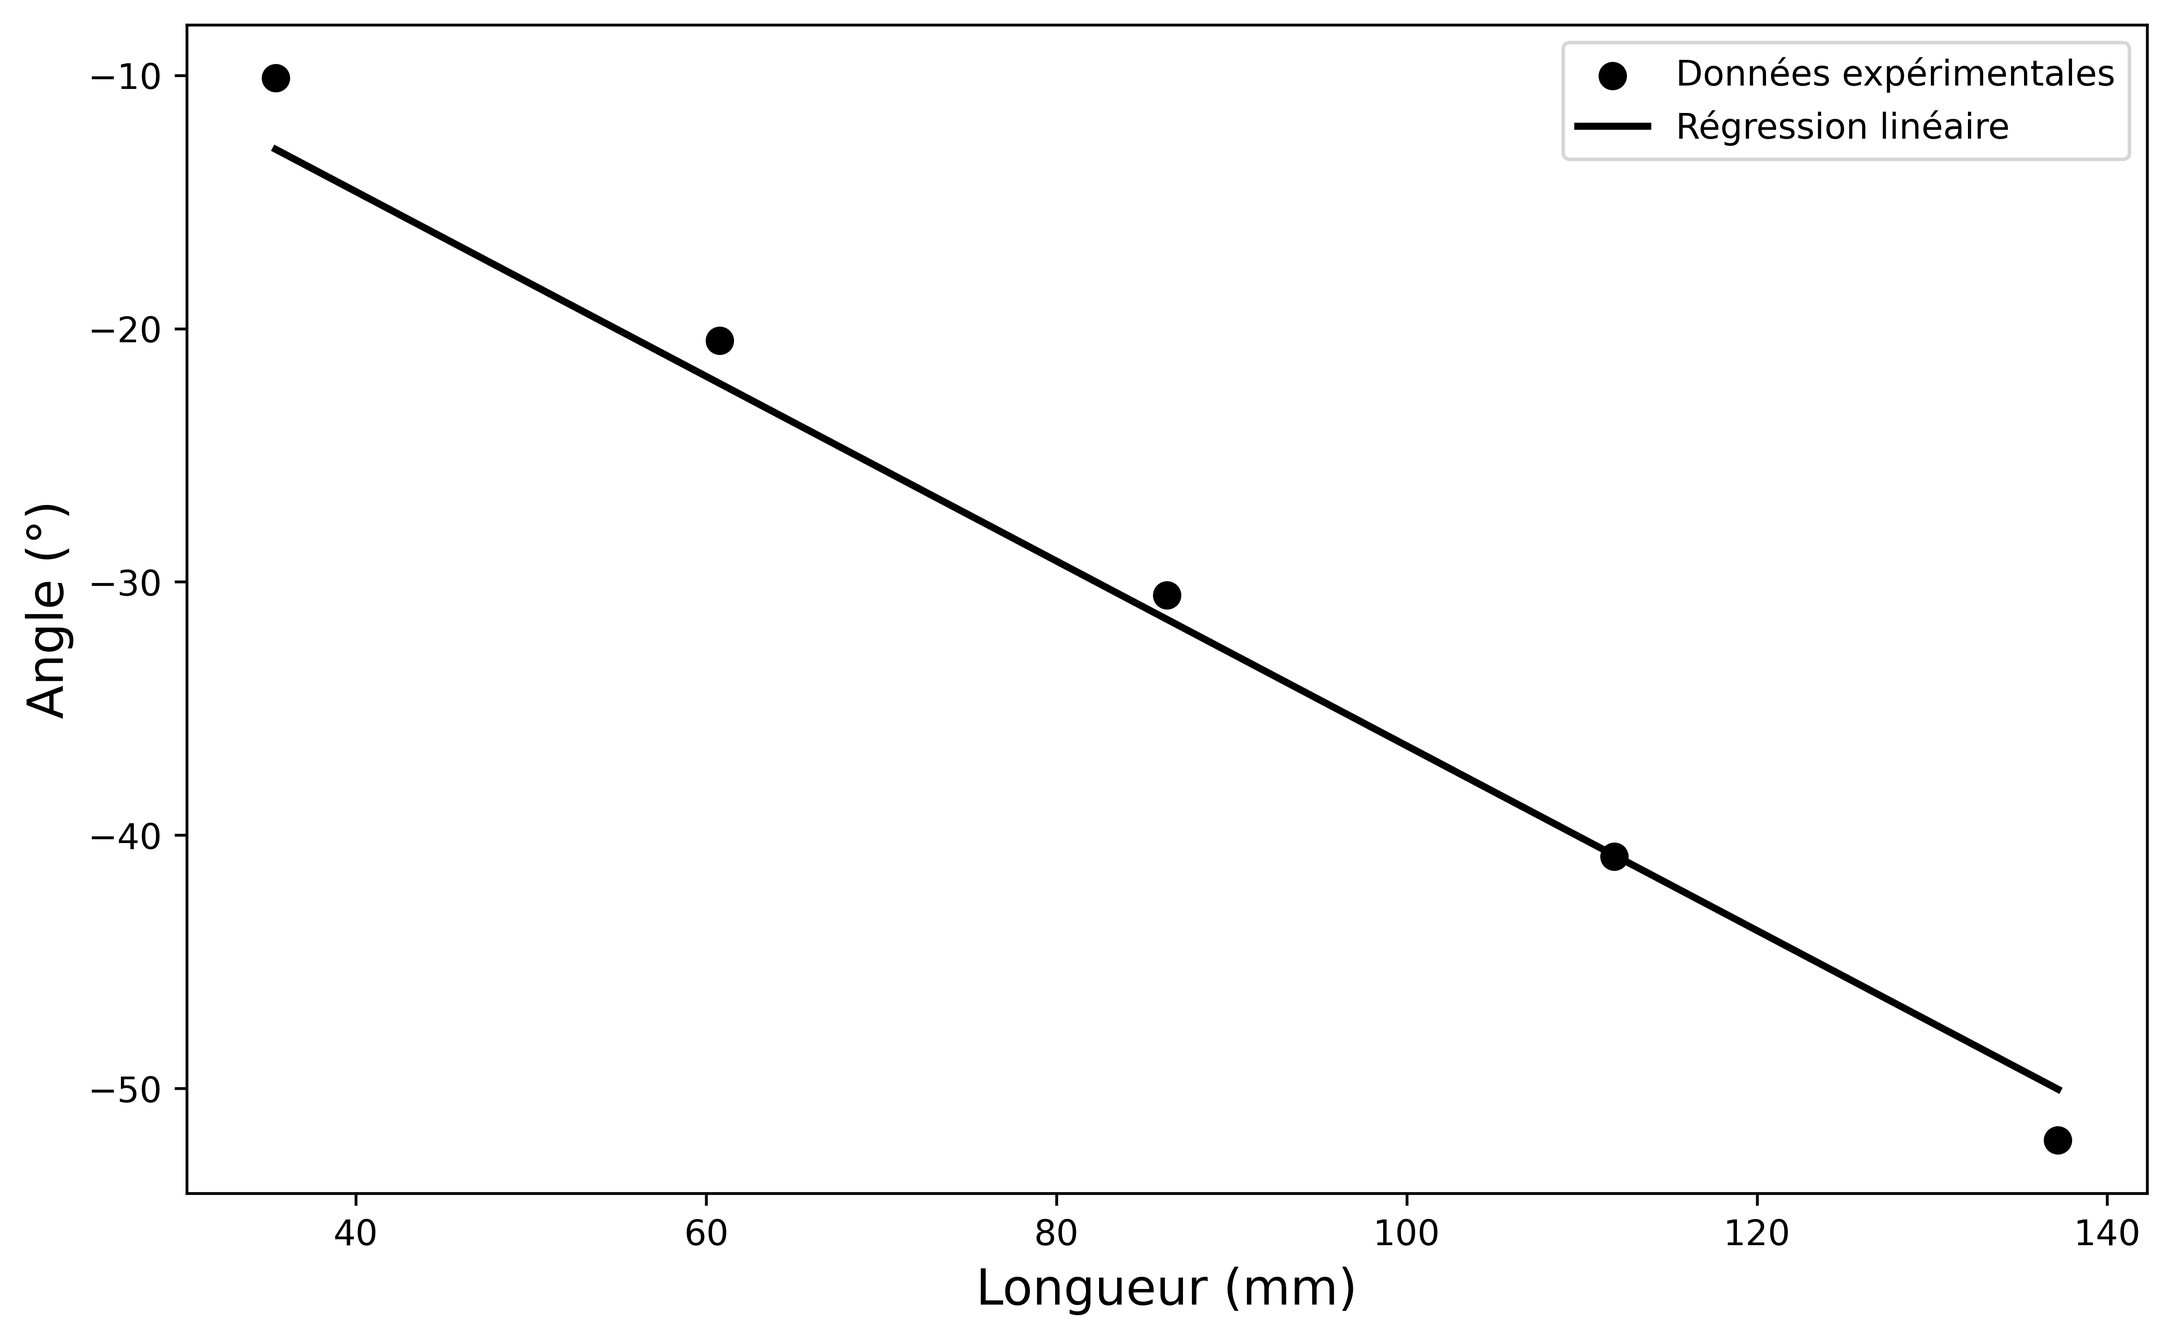
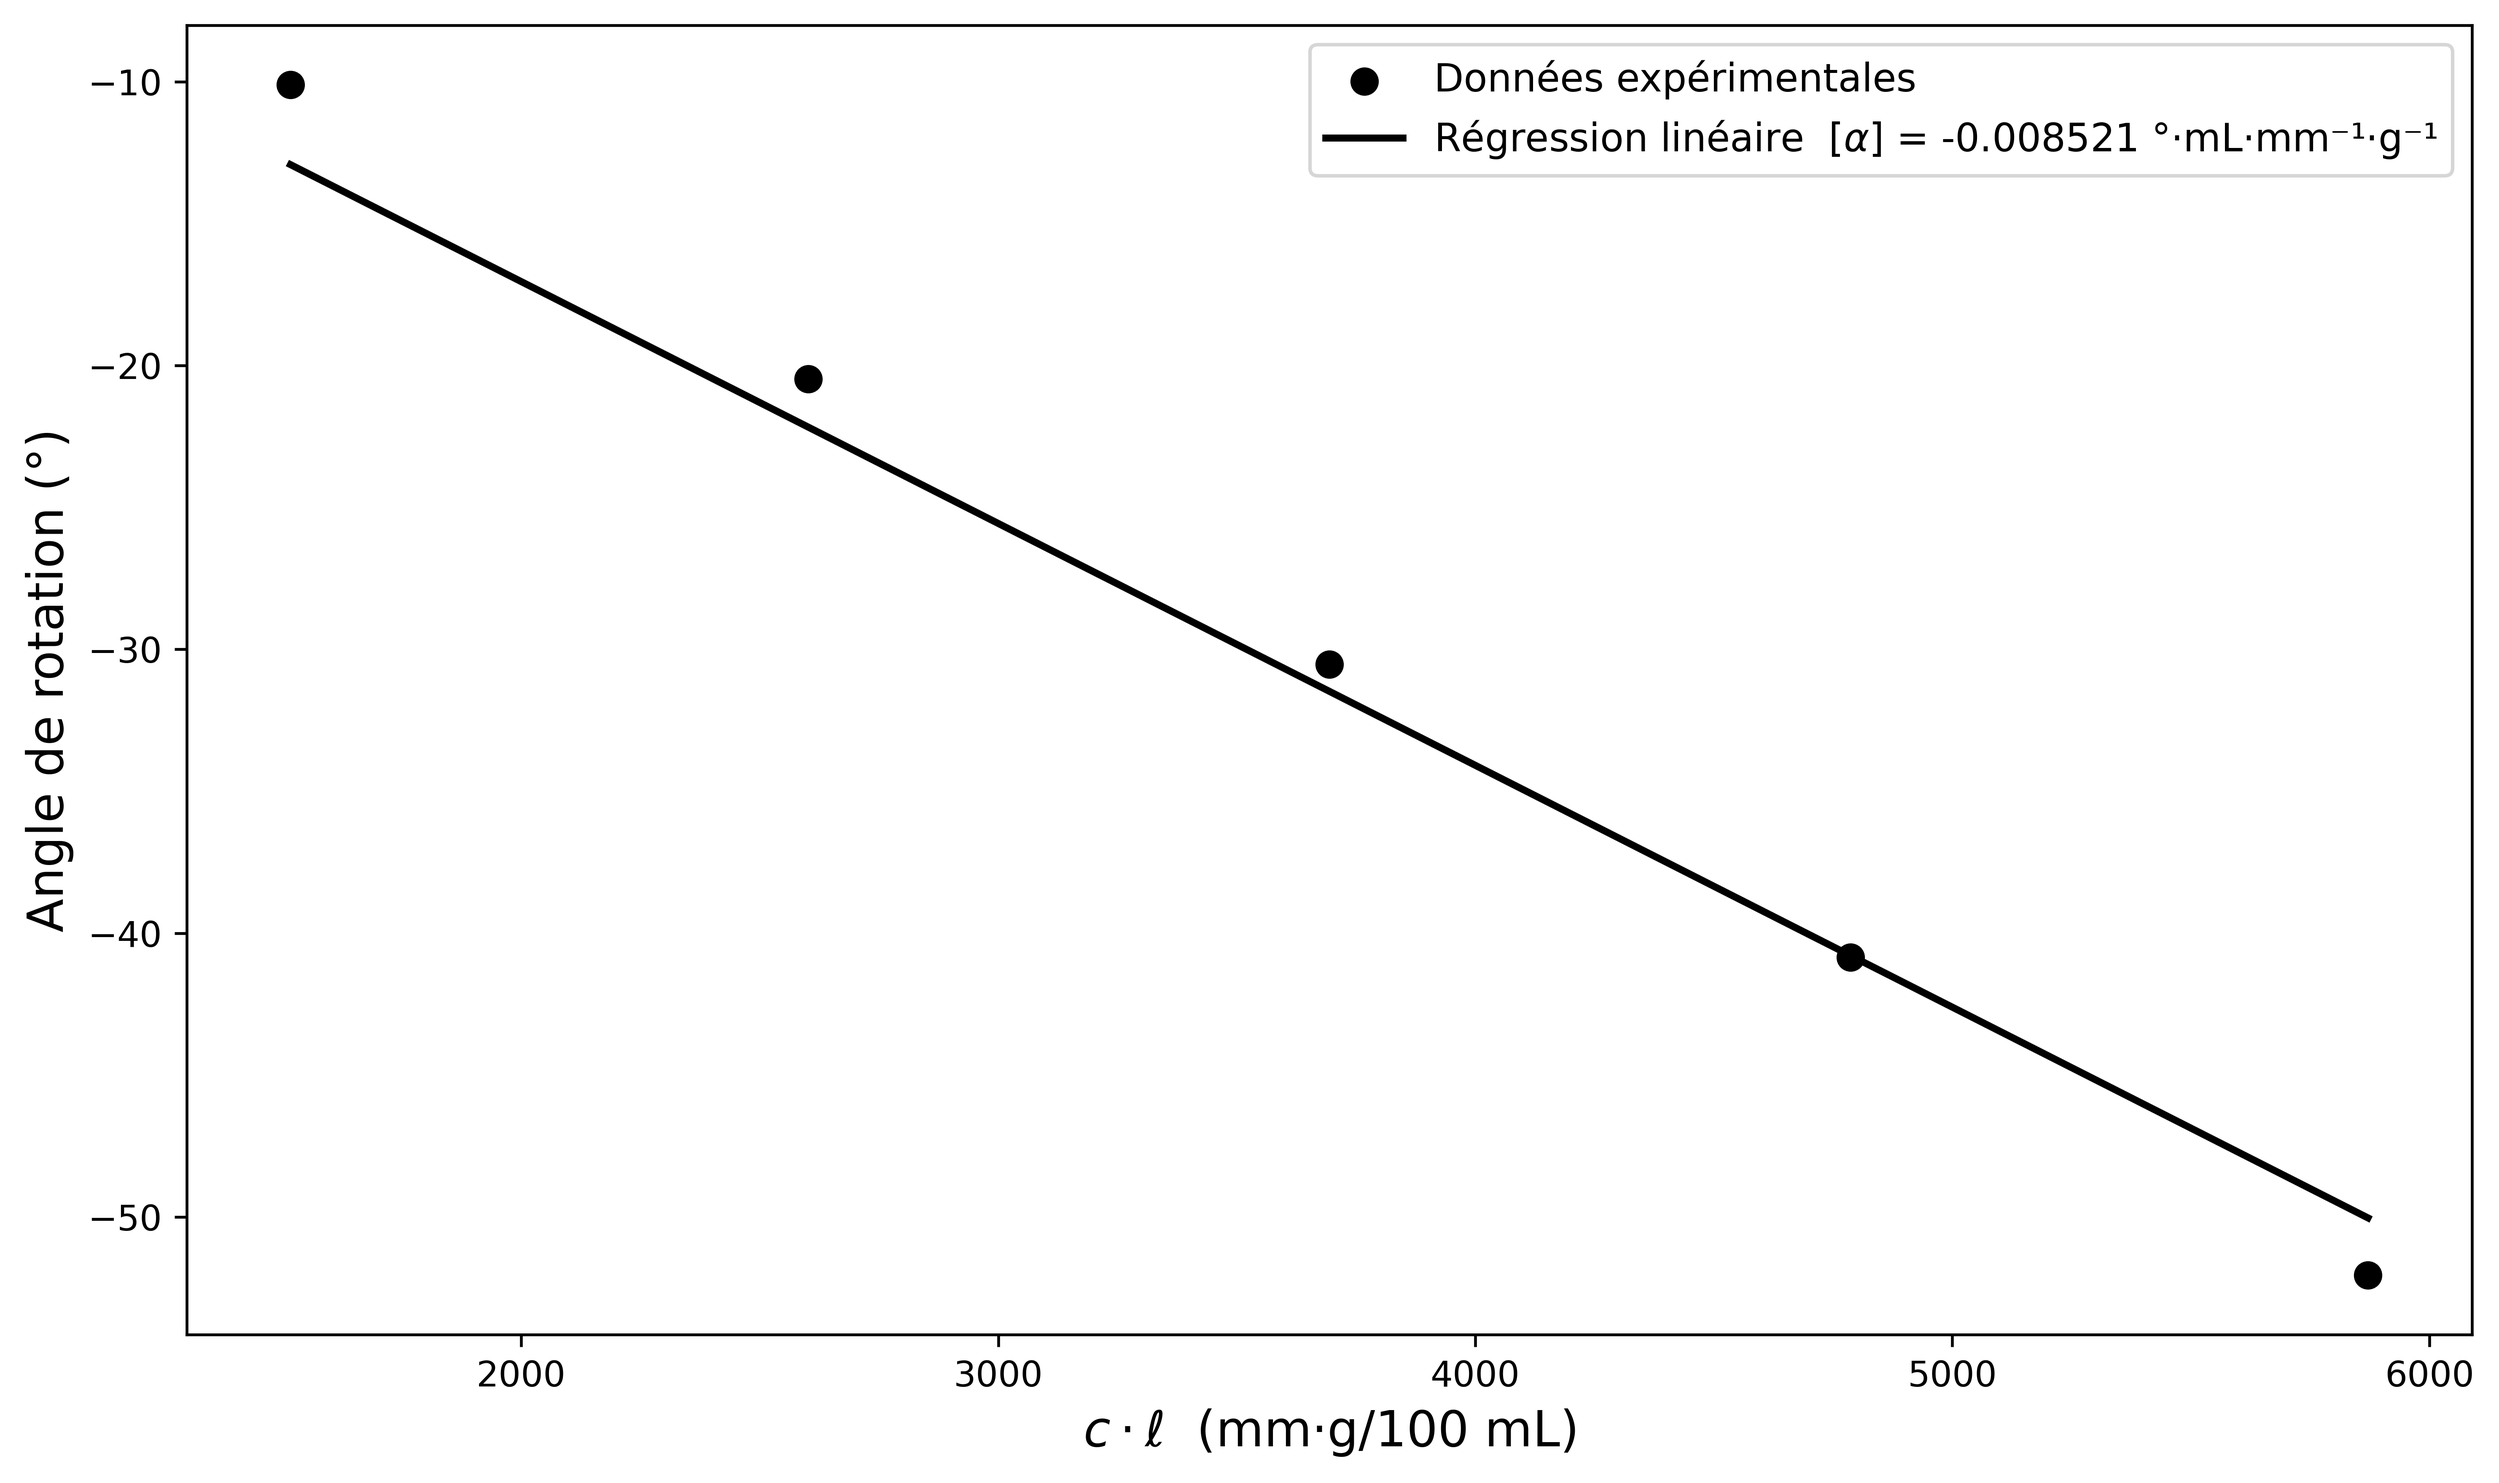
comparaisons des régression linéaires

diff --git a/Projet_2/glucose_moyenne_linéaire.py b/Projet_2/glucose_moyenne_linéaire.py
@@ -4,37 +4,35 @@ import matplotlib.pyplot as plt
 import scipy.optimize as opt
 
 base_dir = os.path.dirname(os.path.abspath(__file__))
-excel_path = os.path.join(base_dir, "Projet_2_31_mars.xlsx")
 
-longueur = np.array([137.18, 106.65, 86.31, 65.96, 45.61])
-#angle = np.array([32.92, 25.8, 20.1, 14.67, 9.08]) #si theta 0 = 67.42
-angle = np.array([32.97, 25.85, 20.15, 14.72, 9.13]) #si theta 0 = 67.37
-concentration = np.array([45.45 for i in range(len(longueur))])
+longueur      = np.array([137.18, 106.65, 86.31, 65.96, 45.61])  # mm
+angle         = np.array([32.97, 25.85, 20.15, 14.72, 9.13])     # °
+concentration = 45.45  # g/100 mL
 
-alpha = angle / (longueur * concentration)
-print("Alpha (°/(mm·g/L)) :", alpha)
+# Variable composite c·ℓ (en mm·g/100mL)
+cl = concentration * longueur
 
-def regression_lineaire(x, a):
-    return a * x
+def regression_lineaire(x, alpha_sp):
+    return alpha_sp * x
 
-popt, pcov = opt.curve_fit(regression_lineaire, longueur, angle)
-a = popt[0]
-print(f"Coefficients de la régression linéaire : a = {a:.6f}")
+popt, pcov = opt.curve_fit(regression_lineaire, cl, angle)
+alpha_sp       = popt[0]
+sigma_alpha_sp = np.sqrt(pcov[0, 0])
 
-longueur_fit = np.linspace(min(longueur), max(longueur), 100)
-angle_fit = a * longueur_fit
+print(f"Pouvoir rotatoire spécifique [α] = {alpha_sp:.6f} ± {sigma_alpha_sp:.6f} °·mL·mm⁻¹·g⁻¹")
 
-alpha_moy = np.mean(alpha)
-print(f"Alpha moyen : {alpha_moy:.6f} °/(mm·g/ml)")
+cl_fit    = np.linspace(min(cl), max(cl), 100)
+angle_fit = alpha_sp * cl_fit
 
 plt.figure(figsize=(10, 6))
-plt.scatter(longueur, angle, color='black', s=50, label='Données expérimentales')
-plt.plot(longueur_fit, angle_fit, color='black', linestyle='-', linewidth=2, label='Régression linéaire')
-plt.xlabel("Longueur (mm)", fontsize=14)
-plt.ylabel("Angle (°)", fontsize=14)
-plt.legend()
+plt.scatter(cl, angle, color='black', s=50, label='Données expérimentales')
+plt.plot(cl_fit, angle_fit, color='black', linestyle='-', linewidth=2,
+         label=f'Régression linéaire  $[\\alpha]$ = {alpha_sp:.6f} °·mL·mm⁻¹·g⁻¹')
+plt.xlabel(r"$c \cdot \ell$  (mm·g/100 mL)", fontsize=14)
+plt.ylabel("Angle de rotation (°)", fontsize=14)
+plt.legend(fontsize=11)
+plt.tight_layout()
 
 out_path = os.path.join(base_dir, "plot_glucose_moyenne_lineaire.png")
 plt.savefig(out_path, dpi=600, bbox_inches='tight')
-
 plt.show()

diff --git a/Projet_2/fructose_moyenne_linéaire.py b/Projet_2/fructose_moyenne_linéaire.py
@@ -3,36 +3,36 @@ import numpy as np
 import matplotlib.pyplot as plt
 import scipy.optimize as opt
 
-base_dir   = os.path.dirname(os.path.abspath(__file__))
+base_dir = os.path.dirname(os.path.abspath(__file__))
 
-longueur = np.array([35.43, 60.78, 86.31, 111.84, 137.18])
-angle = np.array([-10.11, -20.48, -30.53, -40.85, -52.05])
-concentration = np.array([42.8 for i in range(len(longueur))])
+longueur      = np.array([35.43, 60.78, 86.31, 111.84, 137.18])     # mm
+angle         = np.array([-10.11, -20.48, -30.53, -40.85, -52.05])  # °
+concentration = 42.8  # g/100 mL
 
-alpha = angle / (longueur * concentration)
-print("Alpha (°/(mm·g/L)) :", alpha)
+# Variable composite c·ℓ (en mm·g/100mL)
+cl = concentration * longueur
 
-def regression_lineaire(x, a):
-    return a * x
+def regression_lineaire(x, alpha_sp):
+    return alpha_sp * x
 
-popt, pcov = opt.curve_fit(regression_lineaire, longueur, angle)
-a = popt[0]
-print(f"Coefficients de la régression linéaire : a = {a:.6f}")
+popt, pcov = opt.curve_fit(regression_lineaire, cl, angle)
+alpha_sp       = popt[0]
+sigma_alpha_sp = np.sqrt(pcov[0, 0])
 
-longueur_fit = np.linspace(min(longueur), max(longueur), 100)
-angle_fit = a * longueur_fit
+print(f"Pouvoir rotatoire spécifique [α] = {alpha_sp:.6f} ± {sigma_alpha_sp:.6f} °·mL·mm⁻¹·g⁻¹")
 
-alpha_moy = np.mean(alpha)
-print(f"Alpha moyen : {alpha_moy:.6f} °/(mm·g/ml)")
+cl_fit    = np.linspace(min(cl), max(cl), 100)
+angle_fit = alpha_sp * cl_fit
 
 plt.figure(figsize=(10, 6))
-plt.scatter(longueur, angle, color='black', s=50, label='Données expérimentales')
-plt.plot(longueur_fit, angle_fit, color='black', linestyle='-', linewidth=2, label='Régression linéaire')
-plt.xlabel("Longueur (mm)", fontsize=14)
-plt.ylabel("Angle (°)", fontsize=14)
-plt.legend()
+plt.scatter(cl, angle, color='black', s=50, label='Données expérimentales')
+plt.plot(cl_fit, angle_fit, color='black', linestyle='-', linewidth=2,
+         label=f'Régression linéaire  $[\\alpha]$ = {alpha_sp:.6f} °·mL·mm⁻¹·g⁻¹')
+plt.xlabel(r"$c \cdot \ell$  (mm·g/100 mL)", fontsize=14)
+plt.ylabel("Angle de rotation (°)", fontsize=14)
+plt.legend(fontsize=11)
+plt.tight_layout()
 
 out_path = os.path.join(base_dir, "plot_fructose_moyenne_lineaire.png")
 plt.savefig(out_path, dpi=600, bbox_inches='tight')
-
 plt.show()

diff --git a/Projet_2/mélange_comparaison.py b/Projet_2/mélange_comparaison.py
@@ -5,8 +5,8 @@ import matplotlib.pyplot as plt
 from scipy.optimize import curve_fit
 
 theta_zero   = 121.22
-ANGLE_MIN    = -180
-ANGLE_MAX    = 180  
+ANGLE_MIN    = -125
+ANGLE_MAX    = 65  
 sheet_name   = "Essai3"
 longueur     = ['86.31 mm', '137.18 mm'] 
 
@@ -95,14 +95,14 @@ for i, col in enumerate(longueur):
 
 ax.set_xlabel("Angle (degrés)", fontsize=16)
 ax.set_ylabel("Intensité normalisée", fontsize=16)
-ax.set_xlim(-180, 180)
-ax.set_ylim(-0.5, 1.15)
+ax.set_xlim(ANGLE_MIN, ANGLE_MAX)
+ax.set_ylim(-0.05, 1.15)
 
 ax.legend(fontsize=12, loc='upper right', framealpha=0.92)
 
 plt.tight_layout()
 
-#out_path = os.path.join(base_dir, "plot_glucose.png")
-#plt.savefig(out_path, dpi=150, bbox_inches='tight')
+out_path = os.path.join(base_dir, "plot_melange.png")
+plt.savefig(out_path, dpi=600, bbox_inches='tight')
 
 plt.show()

diff --git a/Projet_2/mélange_zéro.py b/Projet_2/mélange_zéro.py
@@ -80,9 +80,8 @@ plt.xlabel("Angle (degrés)")
 plt.ylabel("Intensité normalisée")
 plt.xlim(ANGLE_MIN, ANGLE_MAX)
 plt.ylim(-0.05, 1.15)
-plt.grid()
 
-#out_path = os.path.join(base_dir, "plot_vide.png")
-#plt.savefig(out_path, dpi=150, bbox_inches='tight')
+out_path = os.path.join(base_dir, "plot_melange_vide.png")
+plt.savefig(out_path, dpi=600, bbox_inches='tight')
 
 plt.show()
